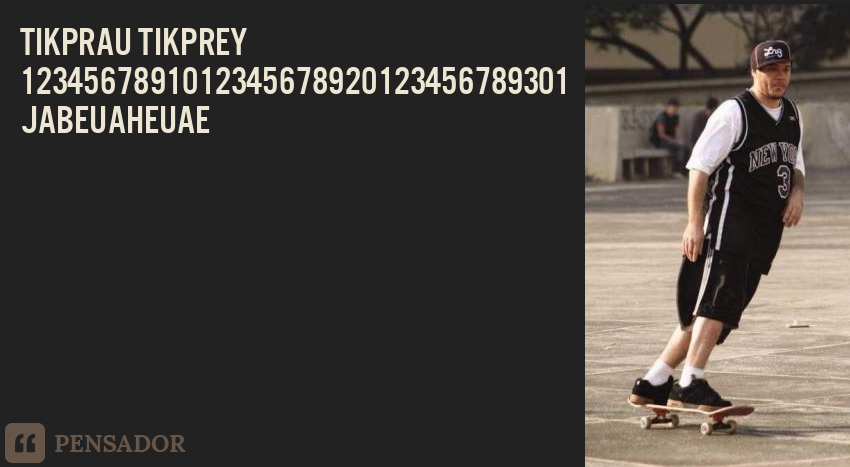
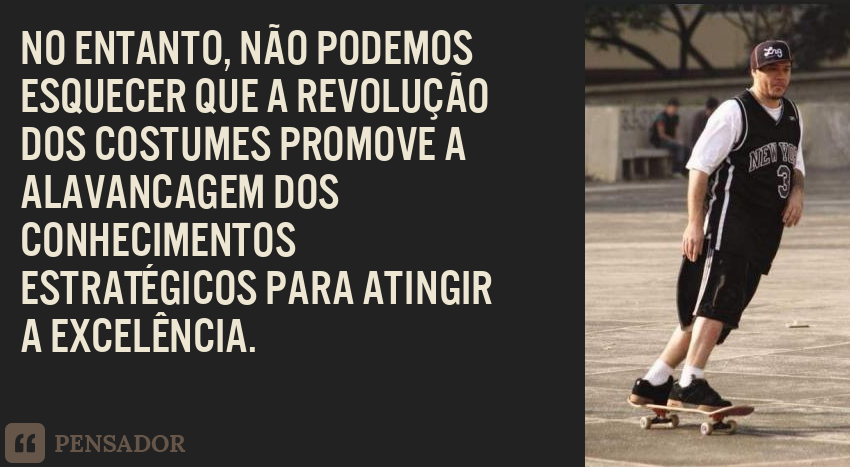
wip

Changed region(s): [[0.0, 0.03, 0.6729, 0.4497], [0.0, 0.4797, 0.5812, 0.7794]]

diff --git a/myclub_website/events/models.py b/myclub_website/events/models.py
@@ -2,26 +2,24 @@ from operator import concat
 from statistics import mode
 from django.db import models
 from PIL import Image, ImageFont, ImageDraw
+from textwrap import wrap
 
 class Event(models.Model):
     description = models.TextField()
+    def __init__(self):
+        return self.description 
 
     def __str__(self):
         return self.description
 
-    def save_image():
-        #title_text = str(self.description)
-        title_text = "TIKPRAUtikpren1234567891012345678920123456789301JABEUAHEUAE"
-        new_text = ""
-        n = int(len(title_text))
-
-        for i in title_text:
-            new_text += i
-            if(int(len(new_text)) == 30)
-                new = '\n'.join(new_text)
-        print(new)
+    def save_image(self):
+        description = str(self.description)
+        #description = "No entanto, não podemos esquecer que a revolução dos costumes promove a alavancagem dos conhecimentos estratégicos para atingir a excelência."
+        new_description = ""
+        for i in wrap(description, width=25):
+            new_description += i + "\n"
         my_image = Image.open("/home/ricardo/projetos/estudos/myapplication/myclub_website/events/static/img/choris.png")
-        title_font = ImageFont.truetype('/home/ricardo/projetos/estudos/myapplication/myclub_website/events/static/fonts/US101.ttf', 40)
+        title_font = ImageFont.truetype('/home/ricardo/projetos/estudos/myapplication/myclub_website/events/static/fonts/US101.ttf', 50)
         image_editable = ImageDraw.Draw(my_image)
-        image_editable.multiline_text((20,20), title_text, (237, 230, 211), font=title_font)
+        image_editable.multiline_text((20,20), new_description, (237, 230, 211), font=title_font)
         my_image.save("/home/ricardo/projetos/estudos/myapplication/myclub_website/events/static/img/choris-1.png")
